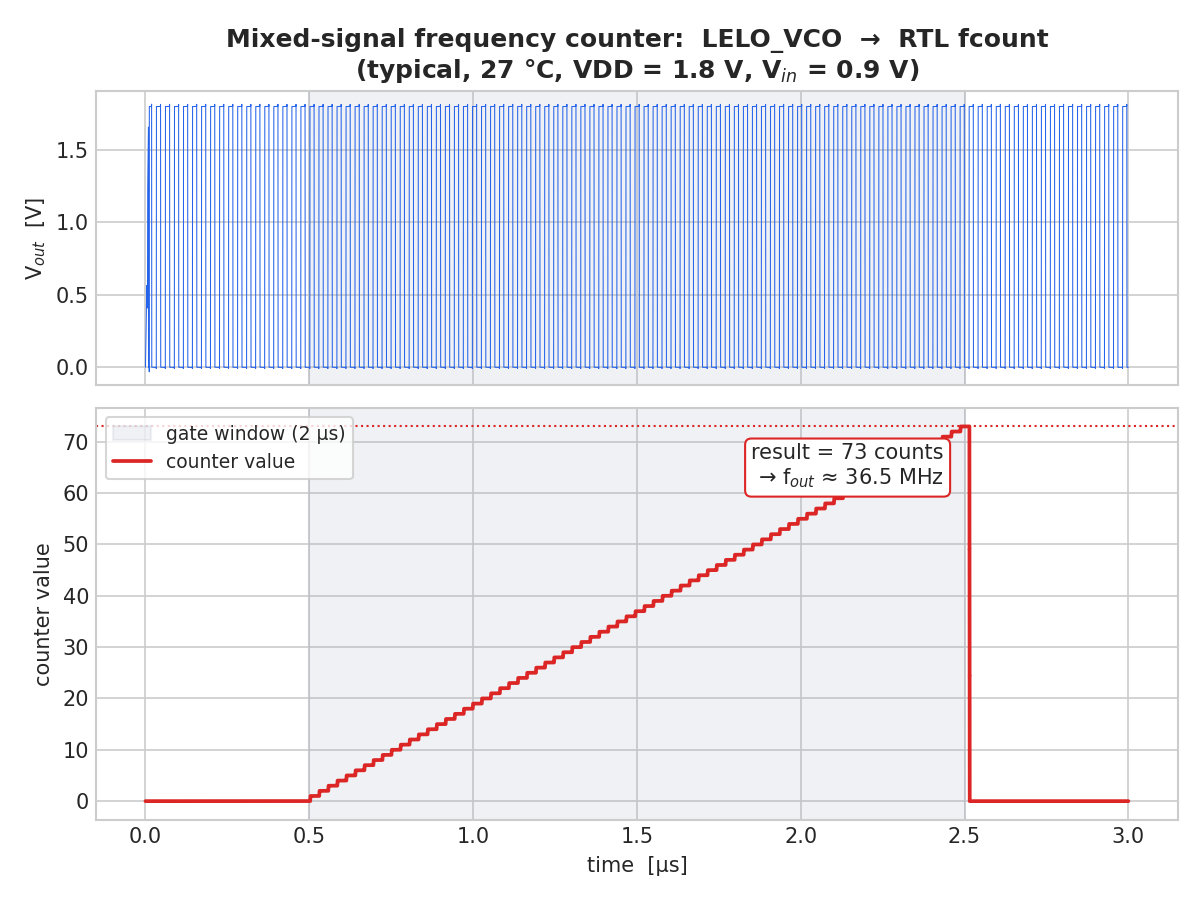
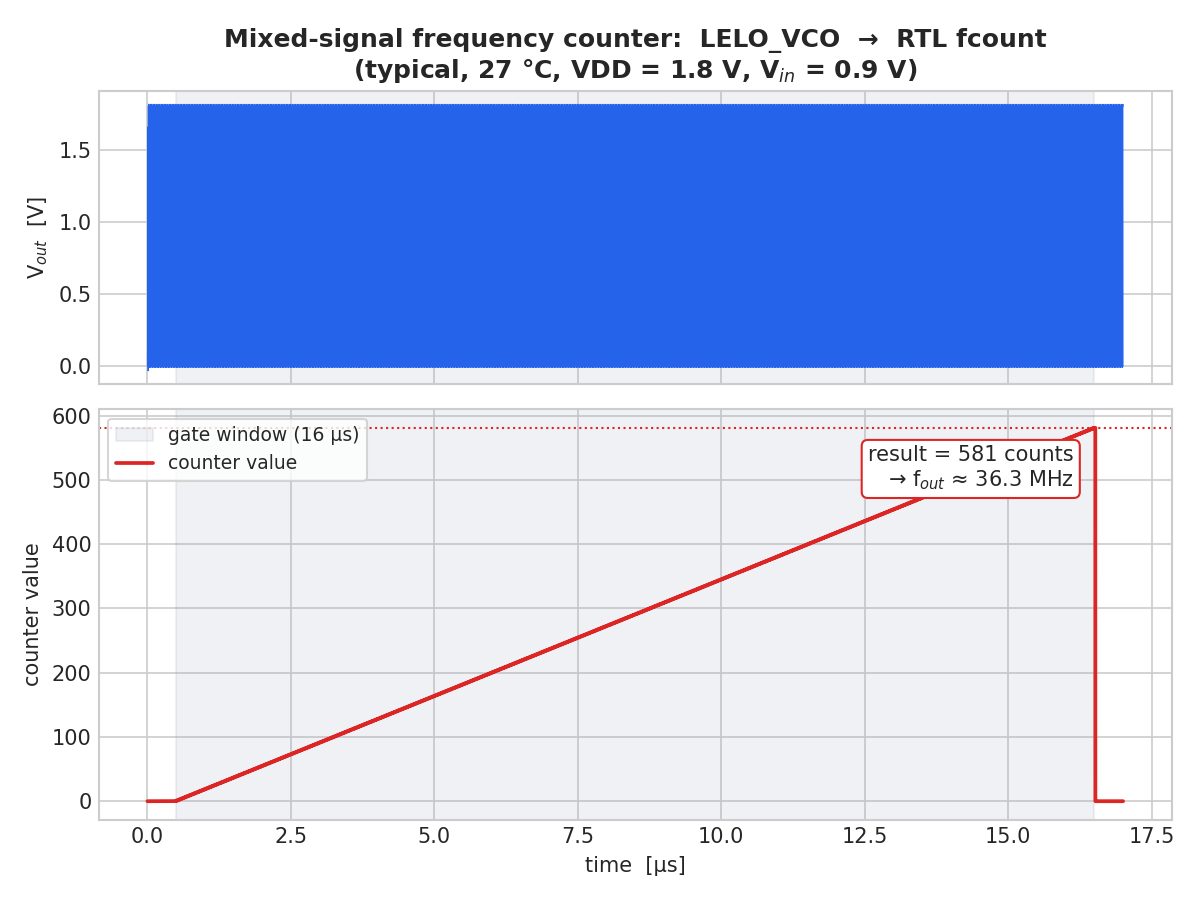
sim: widen counter gate window to 16 us (finer resolution)

diff --git a/sim/FCOUNT/sweep_count.py b/sim/FCOUNT/sweep_count.py
@@ -17,7 +17,7 @@ matplotlib.use("Agg")
 import matplotlib.pyplot as plt
 
 HERE = os.path.dirname(os.path.abspath(__file__))
-TGATE = 2e-6
+TGATE = 16e-6
 VIN_STEPS = [round(0.3 + 0.1 * i, 2) for i in range(16)]  # 0.30 .. 1.80
 
 DECK = """*VCO + fcount transfer sweep
@@ -28,7 +28,7 @@ DECK = """*VCO + fcount transfer sweep
 .param AVDD=1.8
 .param VIN={vin}
 .param TSTART=0.5u
-.param TGATE=2u
+.param TGATE=16u
 
 VSS  VSS 0        dc 0
 VDD  VDD_1V8 VSS  pwl 0 0 10n {{AVDD}}
@@ -46,7 +46,7 @@ VLINK clk Vout dc 0
      + ( ".model auto_dac dac_bridge(out_low = 0.0 out_high = 1.8)"
      +   "auto_bridge%d [ %s ] [ %s ] auto_dac" )
   optran 0 0 0 1n 1u 0
-  tran 20p 3u
+  tran 20p 17u
   let idx = length(v(dec_result)) - 1
   let ncount = v(dec_result)[idx]*1000
   echo "RESULT {vin}" $&ncount

diff --git a/sim/FCOUNT/plot_count.py b/sim/FCOUNT/plot_count.py
@@ -14,7 +14,7 @@ import matplotlib.pyplot as plt
 HERE = os.path.dirname(os.path.abspath(__file__))
 DAT = os.path.join(HERE, "fcount_wave.dat")
 PNG = os.path.join(HERE, "fcount_demo.png")
-TGATE = 2e-6  # gate window [s] (matches tran.spi)
+TGATE = 16e-6  # gate window [s] (matches tran.spi)
 
 d = np.loadtxt(DAT)
 t = d[:, 0] * 1e6            # us

diff --git a/sim/FCOUNT/README.md b/sim/FCOUNT/README.md
@@ -45,12 +45,13 @@ with the VCO, and (4) writes `fcount_demo.png`.
 
 ## Result (typical, 27 °C, VDD = 1.8 V, Vin = 0.9 V)
 
-- Gate window `T_gate = 2 µs`.
-- Measured **result = 73 counts** → f_out ≈ 73 / 2 µs = **36.5 MHz**, matching
-  the analog transient/tuning-curve value (~36.3 MHz) within ±1 count.
+- Gate window `T_gate = 16 µs`.
+- Measured **result = 581 counts** → f_out ≈ 581 / 16 µs = **36.3 MHz**,
+  matching the analog transient/tuning-curve value (~36.3 MHz).
 
-The ±1-count quantization sets the resolution; a longer gate (or reciprocal
-counting) trades measurement time for resolution.
+The ±1-count quantization sets the resolution: 1 LSB = 1/T_gate = **62.5 kHz**
+with the 16 µs window. A longer gate (or reciprocal counting) trades
+measurement time for finer resolution.
 
 ## Digital transfer characteristic (code vs Vin)
 
@@ -61,21 +62,21 @@ curve of the sensor (`make sweep`, via [`sweep_count.py`](sweep_count.py)):
 
 | Vin [V] | count | | Vin [V] | count |
 |--------:|------:|-|--------:|------:|
-| 0.40 | 4   | | 1.10 | 104 |
-| 0.50 | 13  | | 1.20 | 118 |
-| 0.60 | 26  | | 1.30 | 130 |
-| 0.70 | 41  | | 1.40 | 134 |
-| 0.80 | 57  | | 1.50–1.80 | 135 |
-| 0.90 | 73  | |      |     |
-| 1.00 | 88  | |      |     |
+| 0.40 | 28  | | 1.10 | 827  |
+| 0.50 | 103 | | 1.20 | 945  |
+| 0.60 | 210 | | 1.30 | 1042 |
+| 0.70 | 330 | | 1.40 | 1072 |
+| 0.80 | 456 | | 1.50–1.80 | ~1080 |
+| 0.90 | 581 | |      |      |
+| 1.00 | 705 | |      |      |
 
-- **Sensitivity ≈ 150 counts/V** in the linear region (= K_VCO 75 MHz/V ×
-  2 µs gate), saturating at 135 counts.
+- **Sensitivity ≈ 1200 counts/V** in the linear region (= K_VCO 75 MHz/V ×
+  16 µs gate), saturating at ~1080 counts.
 - The code is exactly `f_out × T_gate`, so this is the digitized tuning curve —
-  Vin = 0.9 V → 73 counts matches 36.3 MHz × 2 µs, and 1.8 V → 135 matches
-  67.3 MHz × 2 µs.
-- Resolution is 1 LSB = 1 count = 1/T_gate = 0.5 MHz. Widen `T_gate` for finer
-  resolution (12-bit counter allows up to 4095 counts before overflow).
+  Vin = 0.9 V → 581 counts matches 36.3 MHz × 16 µs, and 1.8 V → 1080 matches
+  67.5 MHz × 16 µs.
+- Resolution is 1 LSB = 1 count = 1/T_gate = **62.5 kHz**. Widen `T_gate` for
+  finer resolution (12-bit counter allows up to 4095 counts before overflow).
 
 ## Generated (git-ignored) artifacts
 

diff --git a/README.md b/README.md
@@ -69,7 +69,7 @@ A synthesizable Verilog counter ([rtl/fcount.v](rtl/fcount.v)) counts VCO
 cycles over a gate window to produce a digital code proportional to `f_out`
 (hence to `Vin`) — the sensor read-out. The RTL is **co-simulated with the
 analog VCO** in ngspice (mixed-signal `d_cosim`); see
-[sim/FCOUNT/README.md](sim/FCOUNT/README.md). At Vin = 0.9 V it reads 73 counts
-over a 2 µs window → 36.5 MHz.
+[sim/FCOUNT/README.md](sim/FCOUNT/README.md). At Vin = 0.9 V it reads 581 counts
+over a 16 µs window → 36.3 MHz.
 
 ![frequency counter demo](sim/FCOUNT/fcount_demo.png)